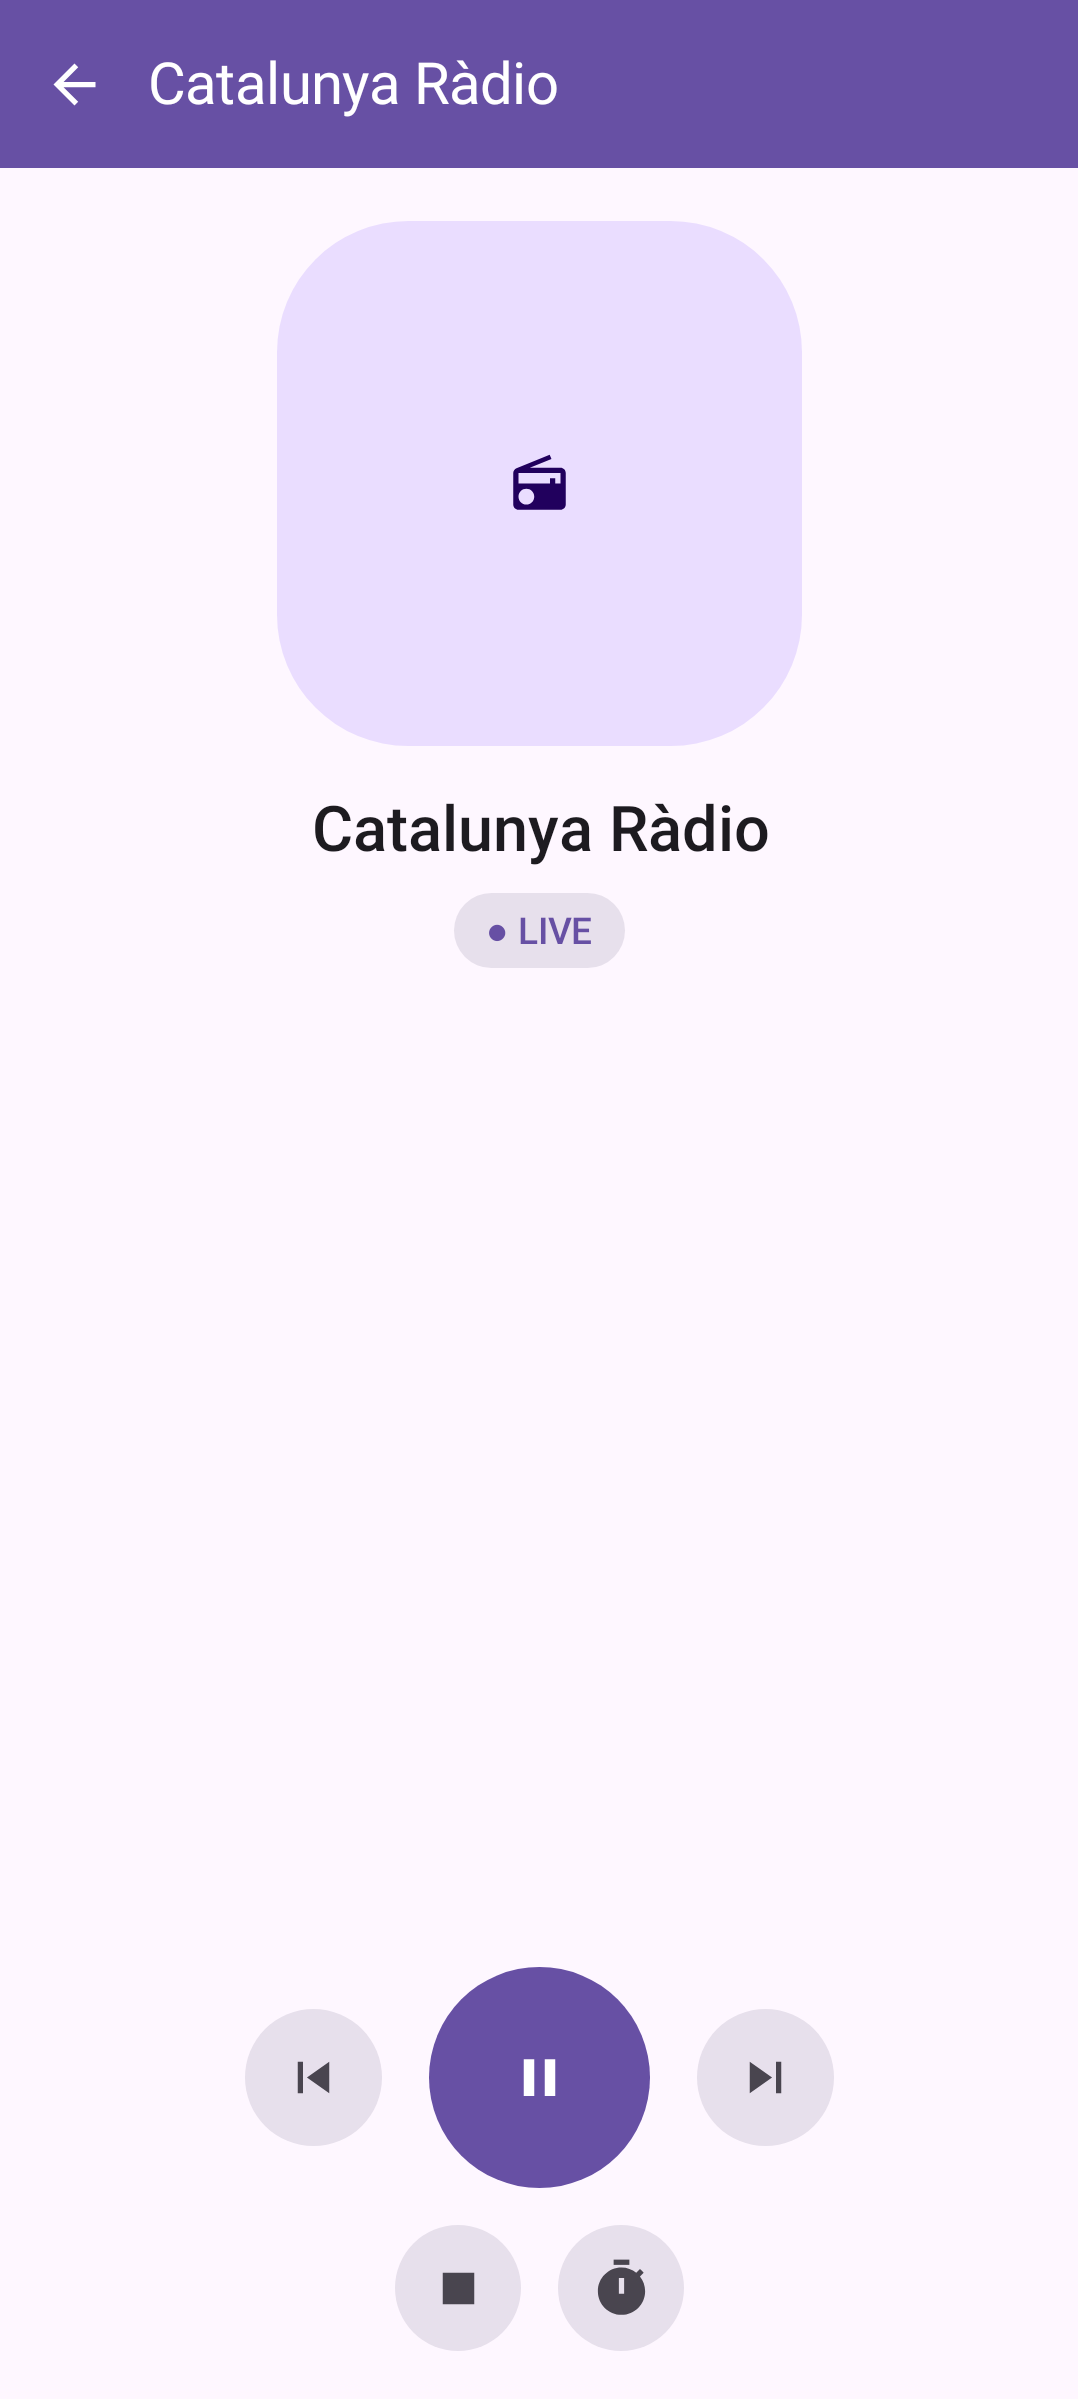
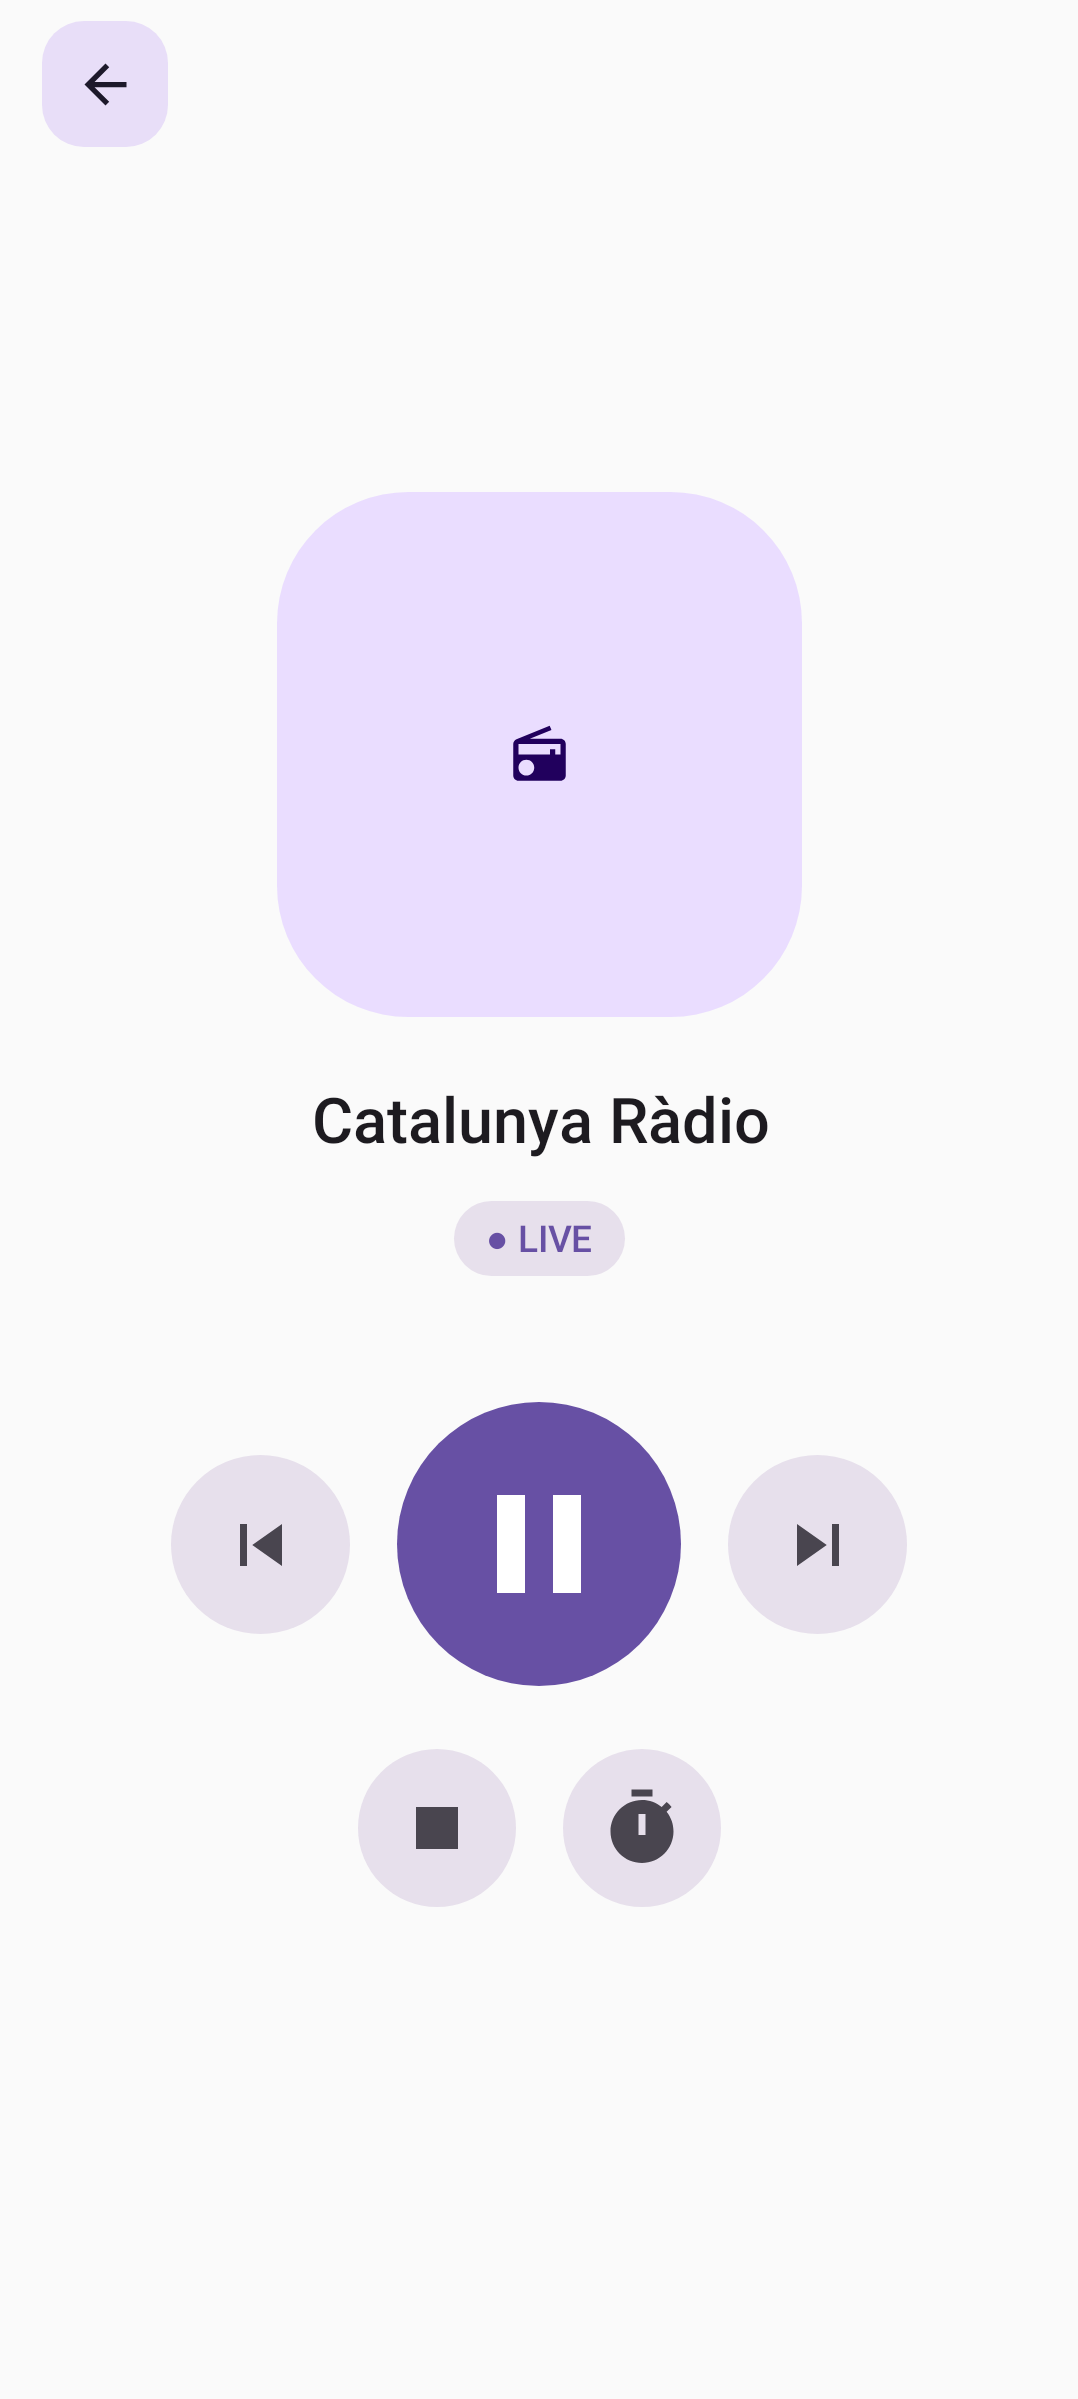
[feature/streaming_radio] feat(radio): enhance RadioPlayerScreen layout and add back button

diff --git a/feature/radio/src/main/java/com/alxnophis/jetpack/radio/ui/composable/RadioPlayerScreen.kt b/feature/radio/src/main/java/com/alxnophis/jetpack/radio/ui/composable/RadioPlayerScreen.kt
@@ -6,9 +6,6 @@ import android.os.Build
 import androidx.activity.compose.rememberLauncherForActivityResult
 import androidx.activity.result.contract.ActivityResultContracts
 import androidx.compose.foundation.background
-import androidx.compose.runtime.LaunchedEffect
-import androidx.compose.ui.platform.LocalContext
-import androidx.core.content.ContextCompat
 import androidx.compose.foundation.clickable
 import androidx.compose.foundation.layout.Arrangement
 import androidx.compose.foundation.layout.Box
@@ -20,13 +17,14 @@ import androidx.compose.foundation.layout.fillMaxWidth
 import androidx.compose.foundation.layout.height
 import androidx.compose.foundation.layout.padding
 import androidx.compose.foundation.layout.size
+import androidx.compose.foundation.layout.statusBarsPadding
 import androidx.compose.foundation.shape.CircleShape
 import androidx.compose.foundation.shape.RoundedCornerShape
 import androidx.compose.material.icons.Icons
 import androidx.compose.material.icons.automirrored.filled.ArrowBack
+import androidx.compose.material.icons.filled.CloudOff
 import androidx.compose.material.icons.filled.Pause
 import androidx.compose.material.icons.filled.PlayArrow
-import androidx.compose.material.icons.filled.CloudOff
 import androidx.compose.material.icons.filled.SkipNext
 import androidx.compose.material.icons.filled.SkipPrevious
 import androidx.compose.material.icons.filled.Stop
@@ -34,19 +32,18 @@ import androidx.compose.material.icons.filled.Timer
 import androidx.compose.material3.Button
 import androidx.compose.material3.CircularProgressIndicator
 import androidx.compose.material3.ExperimentalMaterial3Api
+import androidx.compose.material3.FilledTonalIconButton
 import androidx.compose.material3.Icon
 import androidx.compose.material3.IconButton
 import androidx.compose.material3.IconButtonDefaults
 import androidx.compose.material3.MaterialTheme
 import androidx.compose.material3.ModalBottomSheet
 import androidx.compose.material3.OutlinedButton
-import androidx.compose.material3.Scaffold
 import androidx.compose.material3.Surface
 import androidx.compose.material3.Text
-import androidx.compose.material3.TopAppBar
-import androidx.compose.material3.TopAppBarDefaults
 import androidx.compose.material3.rememberModalBottomSheetState
 import androidx.compose.runtime.Composable
+import androidx.compose.runtime.LaunchedEffect
 import androidx.compose.runtime.getValue
 import androidx.compose.runtime.mutableStateOf
 import androidx.compose.runtime.remember
@@ -55,11 +52,13 @@ import androidx.compose.ui.Alignment
 import androidx.compose.ui.Modifier
 import androidx.compose.ui.draw.clip
 import androidx.compose.ui.graphics.vector.ImageVector
+import androidx.compose.ui.platform.LocalContext
 import androidx.compose.ui.res.stringResource
 import androidx.compose.ui.text.font.FontWeight
 import androidx.compose.ui.text.style.TextAlign
 import androidx.compose.ui.unit.Dp
 import androidx.compose.ui.unit.dp
+import androidx.core.content.ContextCompat
 import androidx.lifecycle.compose.collectAsStateWithLifecycle
 import com.alxnophis.jetpack.radio.R
 import com.alxnophis.jetpack.radio.playback.PlaybackStatus
@@ -100,40 +99,19 @@ internal fun RadioPlayerScreen(
 ) {
     var showTimerSheet by remember { mutableStateOf(false) }
 
-    Scaffold(
-        modifier = Modifier.fillMaxSize(),
-        topBar = {
-            TopAppBar(
-                title = { Text(text = uiState.stationName.orEmpty(), maxLines = 1) },
-                navigationIcon = {
-                    IconButton(onClick = onBack) {
-                        Icon(
-                            imageVector = Icons.AutoMirrored.Filled.ArrowBack,
-                            contentDescription = stringResource(R.string.radio_back),
-                        )
-                    }
-                },
-                colors =
-                    TopAppBarDefaults.topAppBarColors(
-                        containerColor = MaterialTheme.colorScheme.primary,
-                        titleContentColor = MaterialTheme.colorScheme.onPrimary,
-                        navigationIconContentColor = MaterialTheme.colorScheme.onPrimary,
-                    ),
-            )
-        },
-    ) { innerPadding ->
+    Box(modifier = Modifier.fillMaxSize()) {
         Column(
             modifier =
                 Modifier
                     .fillMaxSize()
-                    .padding(innerPadding)
+                    .statusBarsPadding()
                     .padding(horizontal = 24.dp, vertical = 20.dp),
             horizontalAlignment = Alignment.CenterHorizontally,
-            verticalArrangement = Arrangement.SpaceBetween,
+            verticalArrangement = Arrangement.spacedBy(48.dp, Alignment.CenterVertically),
         ) {
             Column(horizontalAlignment = Alignment.CenterHorizontally) {
                 StationIcon(faviconUrl = uiState.artworkUri, size = 200.dp)
-                Spacer(modifier = Modifier.height(16.dp))
+                Spacer(modifier = Modifier.height(24.dp))
                 Text(
                     text = uiState.stationName.orEmpty(),
                     style = MaterialTheme.typography.headlineSmall,
@@ -141,7 +119,7 @@ internal fun RadioPlayerScreen(
                     textAlign = TextAlign.Center,
                     color = MaterialTheme.colorScheme.onSurface,
                 )
-                Spacer(modifier = Modifier.height(8.dp))
+                Spacer(modifier = Modifier.height(14.dp))
                 LiveChip()
                 if (uiState.status == PlaybackStatus.Error) {
                     Spacer(modifier = Modifier.height(16.dp))
@@ -154,22 +132,32 @@ internal fun RadioPlayerScreen(
                     uiState = uiState,
                     onAction = handleEvent,
                 )
-                Spacer(modifier = Modifier.height(16.dp))
+                Spacer(modifier = Modifier.height(24.dp))
                 SecondaryRow(
                     uiState = uiState,
                     onStop = { handleEvent(RadioPlayerEvent.Stop) },
                     onTimer = { showTimerSheet = true },
                 )
                 uiState.sleepTimerRemainingMillis?.let { remaining ->
-                    Spacer(modifier = Modifier.height(8.dp))
+                    Spacer(modifier = Modifier.height(20.dp))
                     Text(
                         text = stringResource(R.string.radio_sleep_remaining, formatRemaining(remaining)),
-                        style = MaterialTheme.typography.bodySmall,
+                        style = MaterialTheme.typography.titleMedium,
+                        fontWeight = FontWeight.Medium,
                         color = MaterialTheme.colorScheme.onSurfaceVariant,
                     )
                 }
             }
         }
+
+        BackButton(
+            onClick = onBack,
+            modifier =
+                Modifier
+                    .align(Alignment.TopStart)
+                    .statusBarsPadding()
+                    .padding(start = 16.dp, top = 8.dp),
+        )
     }
 
     if (showTimerSheet) {
@@ -179,6 +167,23 @@ internal fun RadioPlayerScreen(
                 handleEvent(RadioPlayerEvent.SetSleepTimer(minutes))
                 showTimerSheet = false
             },
+        )
+    }
+}
+
+@Composable
+private fun BackButton(
+    onClick: () -> Unit,
+    modifier: Modifier = Modifier,
+) {
+    FilledTonalIconButton(
+        onClick = onClick,
+        modifier = modifier.size(48.dp),
+        shape = RoundedCornerShape(16.dp),
+    ) {
+        Icon(
+            imageVector = Icons.AutoMirrored.Filled.ArrowBack,
+            contentDescription = stringResource(R.string.radio_back),
         )
     }
 }
@@ -235,7 +240,7 @@ private fun ControlsRow(
         RoundControl(
             icon = Icons.Filled.SkipPrevious,
             description = stringResource(R.string.radio_previous),
-            size = 52.dp,
+            size = 68.dp,
             enabled = uiState.canPrevious,
             onClick = { onAction(RadioPlayerEvent.Previous) },
         )
@@ -243,7 +248,7 @@ private fun ControlsRow(
         RoundControl(
             icon = Icons.Filled.SkipNext,
             description = stringResource(R.string.radio_next),
-            size = 52.dp,
+            size = 68.dp,
             enabled = uiState.canNext,
             onClick = { onAction(RadioPlayerEvent.Next) },
         )
@@ -274,7 +279,7 @@ private fun PlayPauseButton(
     Box(
         modifier =
             Modifier
-                .size(84.dp)
+                .size(108.dp)
                 .clip(CircleShape)
                 .background(MaterialTheme.colorScheme.primary)
                 .clickable(onClick = onClick),
@@ -283,21 +288,36 @@ private fun PlayPauseButton(
         when {
             uiState.status == PlaybackStatus.Buffering -> {
                 CircularProgressIndicator(
-                    modifier = Modifier.size(36.dp),
+                    modifier = Modifier.size(44.dp),
                     color = MaterialTheme.colorScheme.onPrimary,
                 )
             }
 
             isError -> {
-                Icon(Icons.Filled.PlayArrow, stringResource(R.string.radio_retry), tint = MaterialTheme.colorScheme.onPrimary)
+                Icon(
+                    Icons.Filled.PlayArrow,
+                    stringResource(R.string.radio_retry),
+                    tint = MaterialTheme.colorScheme.onPrimary,
+                    modifier = Modifier.size(64.dp),
+                )
             }
 
             isPlaying -> {
-                Icon(Icons.Filled.Pause, stringResource(R.string.radio_pause), tint = MaterialTheme.colorScheme.onPrimary)
+                Icon(
+                    Icons.Filled.Pause,
+                    stringResource(R.string.radio_pause),
+                    tint = MaterialTheme.colorScheme.onPrimary,
+                    modifier = Modifier.size(64.dp),
+                )
             }
 
             else -> {
-                Icon(Icons.Filled.PlayArrow, stringResource(R.string.radio_play), tint = MaterialTheme.colorScheme.onPrimary)
+                Icon(
+                    Icons.Filled.PlayArrow,
+                    stringResource(R.string.radio_play),
+                    tint = MaterialTheme.colorScheme.onPrimary,
+                    modifier = Modifier.size(64.dp),
+                )
             }
         }
     }
@@ -316,14 +336,14 @@ private fun SecondaryRow(
         RoundControl(
             icon = Icons.Filled.Stop,
             description = stringResource(R.string.radio_stop),
-            size = 44.dp,
+            size = 60.dp,
             enabled = uiState.status != PlaybackStatus.Idle,
             onClick = onStop,
         )
         RoundControl(
             icon = Icons.Filled.Timer,
             description = stringResource(R.string.radio_sleep_timer),
-            size = 44.dp,
+            size = 60.dp,
             enabled = true,
             onClick = onTimer,
         )
@@ -341,10 +361,13 @@ private fun RoundControl(
     IconButton(
         onClick = onClick,
         enabled = enabled,
-        modifier = Modifier.size(size).background(MaterialTheme.colorScheme.surfaceVariant, CircleShape),
+        modifier =
+            Modifier
+                .size(size)
+                .background(MaterialTheme.colorScheme.surfaceVariant, CircleShape),
         colors = IconButtonDefaults.iconButtonColors(contentColor = MaterialTheme.colorScheme.onSurfaceVariant),
     ) {
-        Icon(imageVector = icon, contentDescription = description)
+        Icon(imageVector = icon, contentDescription = description, modifier = Modifier.size(32.dp))
     }
 }
 
@@ -357,7 +380,10 @@ private fun SleepTimerSheet(
     val sheetState = rememberModalBottomSheetState()
     ModalBottomSheet(onDismissRequest = onDismiss, sheetState = sheetState) {
         Column(
-            modifier = Modifier.fillMaxWidth().padding(horizontal = 24.dp, vertical = 16.dp),
+            modifier =
+                Modifier
+                    .fillMaxWidth()
+                    .padding(horizontal = 24.dp, vertical = 16.dp),
             verticalArrangement = Arrangement.spacedBy(12.dp),
         ) {
             Text(text = stringResource(R.string.radio_sleep_title), style = MaterialTheme.typography.titleLarge)
